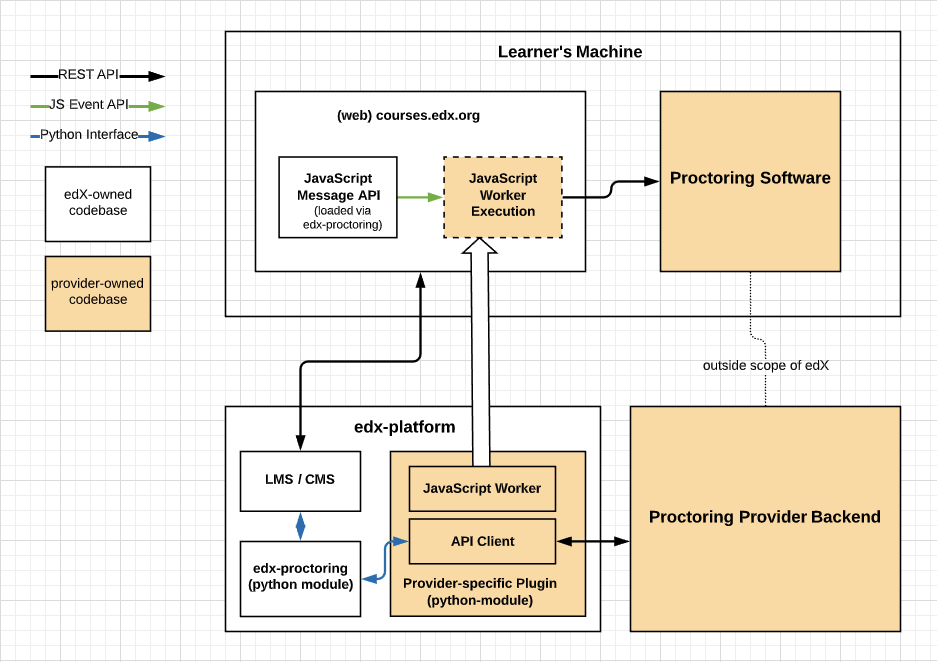
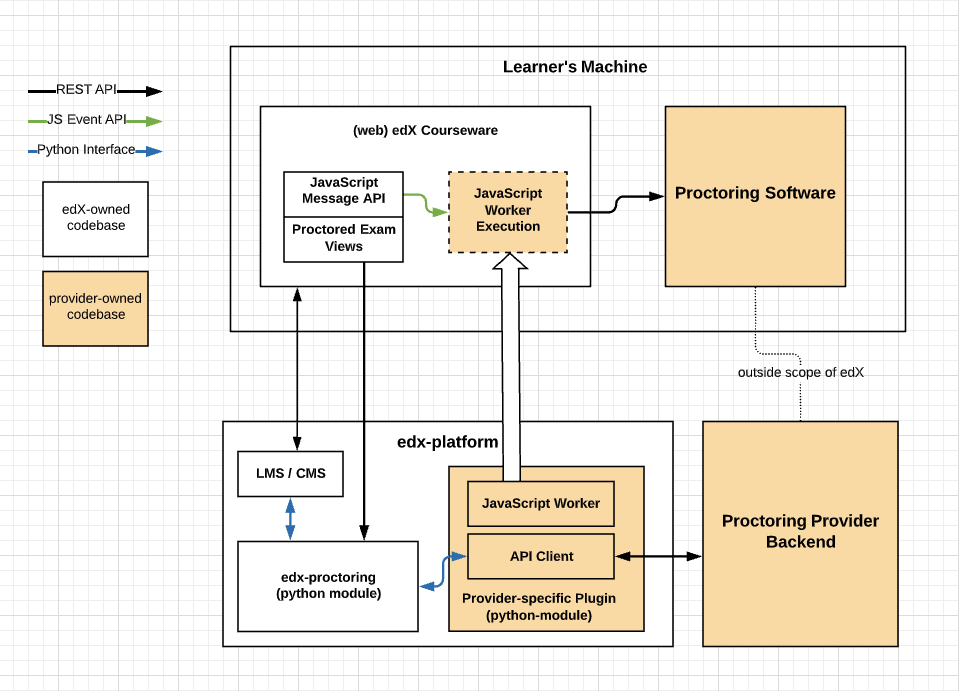
todos/cleanup

diff --git a/docs/system-overview.rst b/docs/system-overview.rst
@@ -18,22 +18,23 @@ Interstitial views within a section that are shown to in place of the actual
 exam content. They are used to walk a leaner through setup steps
 and display the state of the current attempt.
 
-templates are defined in edx-proctoring
-https://github.com/edx/edx-proctoring/tree/master/edx_proctoring/templates
+The LMS calls into edx-proctoring to load the relevent template when rendering the
+`student_view()` for an exam section that is proctored.
 
-LMS calls into edx-proctoring to load the relevent template when rendering the
-`student_view()` for a section.
-https://github.com/edx/edx-platform/blob/a7dff8c21ee794e90bdc0f22876334a7843a032d/common/lib/xmodule/xmodule/seq_module.py#L274
+LMS: https://github.com/edx/edx-platform/blob/a7dff8c21ee794e90bdc0f22876334a7843a032d/common/lib/xmodule/xmodule/seq_module.py#L274
+edx-proctoring: https://github.com/edx/edx-proctoring/blob/78976d93ab6ca5206f259dc420d2f45818fe636c/edx_proctoring/api.py#L1912
 
-TODO: refer to _get_proctored_exam_view here
+Templates for these views are defined in edx-proctoring: https://github.com/edx/edx-proctoring/tree/master/edx_proctoring/templates
 
 JavaScript Message API and Worker
 ^^^^^^^^^^^^^^^^^^^^^^^^^^^^^^^^^
 A set of functions called by edX courseware to emit messages based on changing
-exam states. For example, clicking 'start exam'. These messages are handled by a 
-JS worker specific to the proctoring provider. That worker is included as part of 
-the the provider's python plugin installed in our platform built to
-interface directly with the proctoring software running on the learner's machine.
+exam states. These messages may be handled by a JS worker specific to the proctoring provider. 
+That worker is included as part of the the provider's python plugin and will 
+interface directly with the proctoring software running on the learner's machine. Exam
+state will transition forward only after these messages have been successfully handled.
+However if a provider does not have a worker interface configured there will be no direct
+communication between edX courseware and the proctoring client.
 
 edX Message API
 https://github.com/edx/edx-proctoring/blob/master/edx_proctoring/static/proctoring/js/exam_action_handler.js
@@ -43,27 +44,22 @@ https://github.com/joshivj/edx-proctoring-proctortrack/blob/master/edx_proctorin
 
 edx-proctoring
 ^^^^^^^^^^^^^^
-Python plugin that handles the bulk of edX's proctoring logic. A short-list of key responsibilities:
- #. Models for proctored exam configuration and learner attempts.
- #. Exposes a REST API for providers to manage exams and attempts.
- #. Includes a Python API for edX platform to manage exams and attempts.
- #. Communicates exam attempt states to the provider's backend through their plugin.
- #. Handle's interstitial rendering logic based on attempt status
-https://github.com/edx/edx-proctoring
-
 Python plugin that handles the bulk of edX's proctoring logic. It hosts the models for proctored
-exam configuration and learner attempts and exposes a REST and Python interface to manage them.
-edx-proctoring also handles calling out the the providers backend (through a plugin) to keep
-exams and attempts in-sync between the two systems.
+exam configuration and learner attempts.  It exposes a REST and Python interface to manage them.
+edx-proctoring is also responsible for calling out to the provider's backend (through a plugin) to keep
+exam configuration and learner attempts in-sync between the two systems.
 
 provider-specific plugin
 ^^^^^^^^^^^^^^^^^^^^^^^^
 Integration layer to handle making REST/http requests to the provider's backend.
+This can exist as a Python module or be hard coded into edx-proctoring as a backend.
 More information on configuring backends can be found here: https://github.com/edx/edx-proctoring/blob/master/docs/backends.rst
 
-We have two backends installed in edx-platform:
-https://github.com/joshivj/edx-proctoring-proctortrack
-RPNOW?
+We have two non-testing backends:
+1. Proctortrack: https://github.com/joshivj/edx-proctoring-proctortrack
+2. RPNow: https://github.com/edx/edx-proctoring/blob/447c0bf49f31fa4df2aa2b0339137ccfd173f237/edx_proctoring/backends/software_secure.py
+
+For backend testing in a local environment see mockprock in the :doc: `developing.rst`
 
 Exam States and User Flow
 --------------------------
@@ -72,20 +68,13 @@ in the edX system. User actions and the proctoring software will update the stat
 this attempt. The following diagram describes the user flow through those status
 updates.
 
-todo mention various prereqs
-
+Note this figure does not include error states or display of unmet prerequite requirements
 .. image:: images/attempt_states.png
 
 Example Action Sequence
 -------------------------
 
-The diagram below describes the sequence of interactions for sucessfully entering and beginning
-a proctored exam.
+The diagram below describes the happy-path of interactions between components to 
+sucessfully begin a proctored exam.
 
 .. image:: images/sequence.png
-
-
-=, for sections
--, for subsections
-^, for subsubsections
-“, for paragraphs
